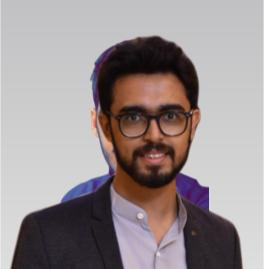
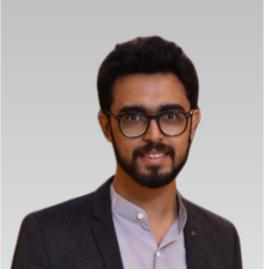
update ai3

Changed region(s): [[0.2121, 0.1487, 0.5152, 0.7732], [0.6364, 0.6245, 0.8182, 0.803]]

diff --git a/_courses/ai3.md b/_courses/ai3.md
@@ -210,7 +210,7 @@ This page introduces you to the team, the basic instructions, the schedule and v
 <div style="display: grid; grid-template-columns: repeat(8, 1fr);">
   <div class="img-border" style="grid-column: 1/2;">
     <div class="circular--portrait">
-      <img src="/assets/images/people/LakshayChawla.png" class="circular--portrait-img" align="left" data-toggle="modal" data-target="#LakshayModal"/>
+      <img src="/assets/images/people/LakshayChawla.jpeg" class="circular--portrait-img" align="left" data-toggle="modal" data-target="#LakshayModal"/>
     </div>
   </div>
   
